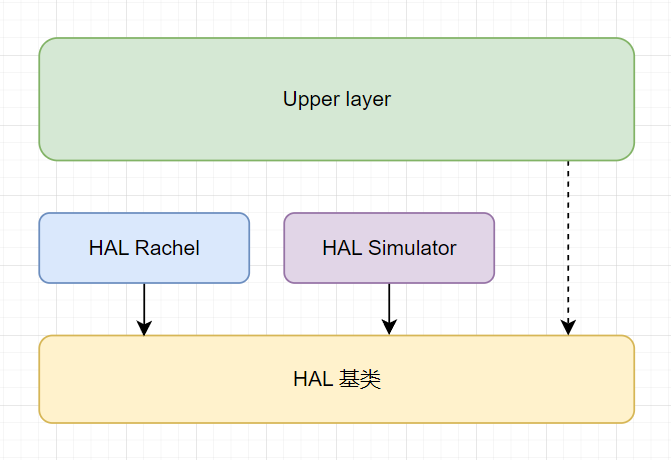
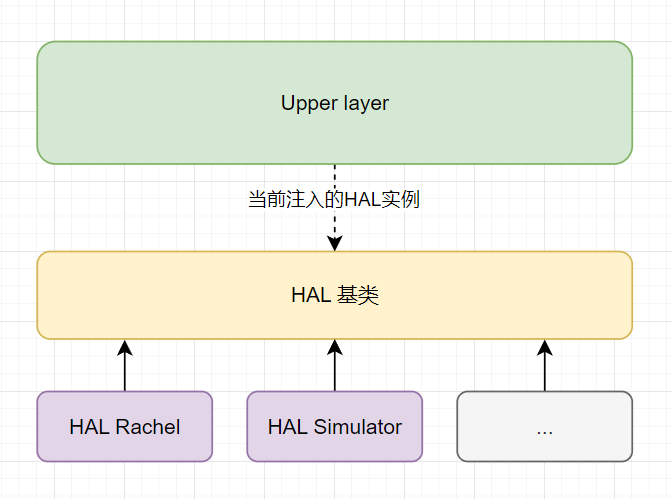
add pics

diff --git a/README.md b/README.md
@@ -156,11 +156,10 @@ Mooncake 框架内部集成了 [spdlog](https://github.com/gabime/spdlog) 日志
 
 ![](https://github.com/Forairaaaaa/rachel_sdk_simulator/blob/main/pics/hal_uml.jpg)
 
-HAL为**单例**模式，[当SDK初始化时被注入](https://github.com/Forairaaaaa/RachelSDK/blob/main/src/rachel/rachel.cpp#L34). 
+HAL为**单例**模式，SDK初始化时会[注入](https://github.com/Forairaaaaa/RachelSDK/blob/main/src/rachel/rachel.cpp#L34)一个HAL实例. 
 
-如有不同底层硬件需求, 只需派生新的[HAL](https://github.com/Forairaaaaa/RachelSDK/blob/main/src/rachel/hal/hal.h#L84)对象, 改写虚函数并在初始化时注入即可.
-
-对于 `HAL Rachel` , 按住按键A开机, 会暂停在初始化界面, 可以查看详细HAL初始化log.
+- 对于 `HAL Rachel` , 按住按键A开机, 会暂停在初始化界面, 可以查看详细HAL初始化log.
+- 如果有不同底层硬件需求, 只需派生新的[HAL](https://github.com/Forairaaaaa/RachelSDK/blob/main/src/rachel/hal/hal.h#L84)对象, override 虚函数并在初始化时注入即可.
 
 ### Include
 
